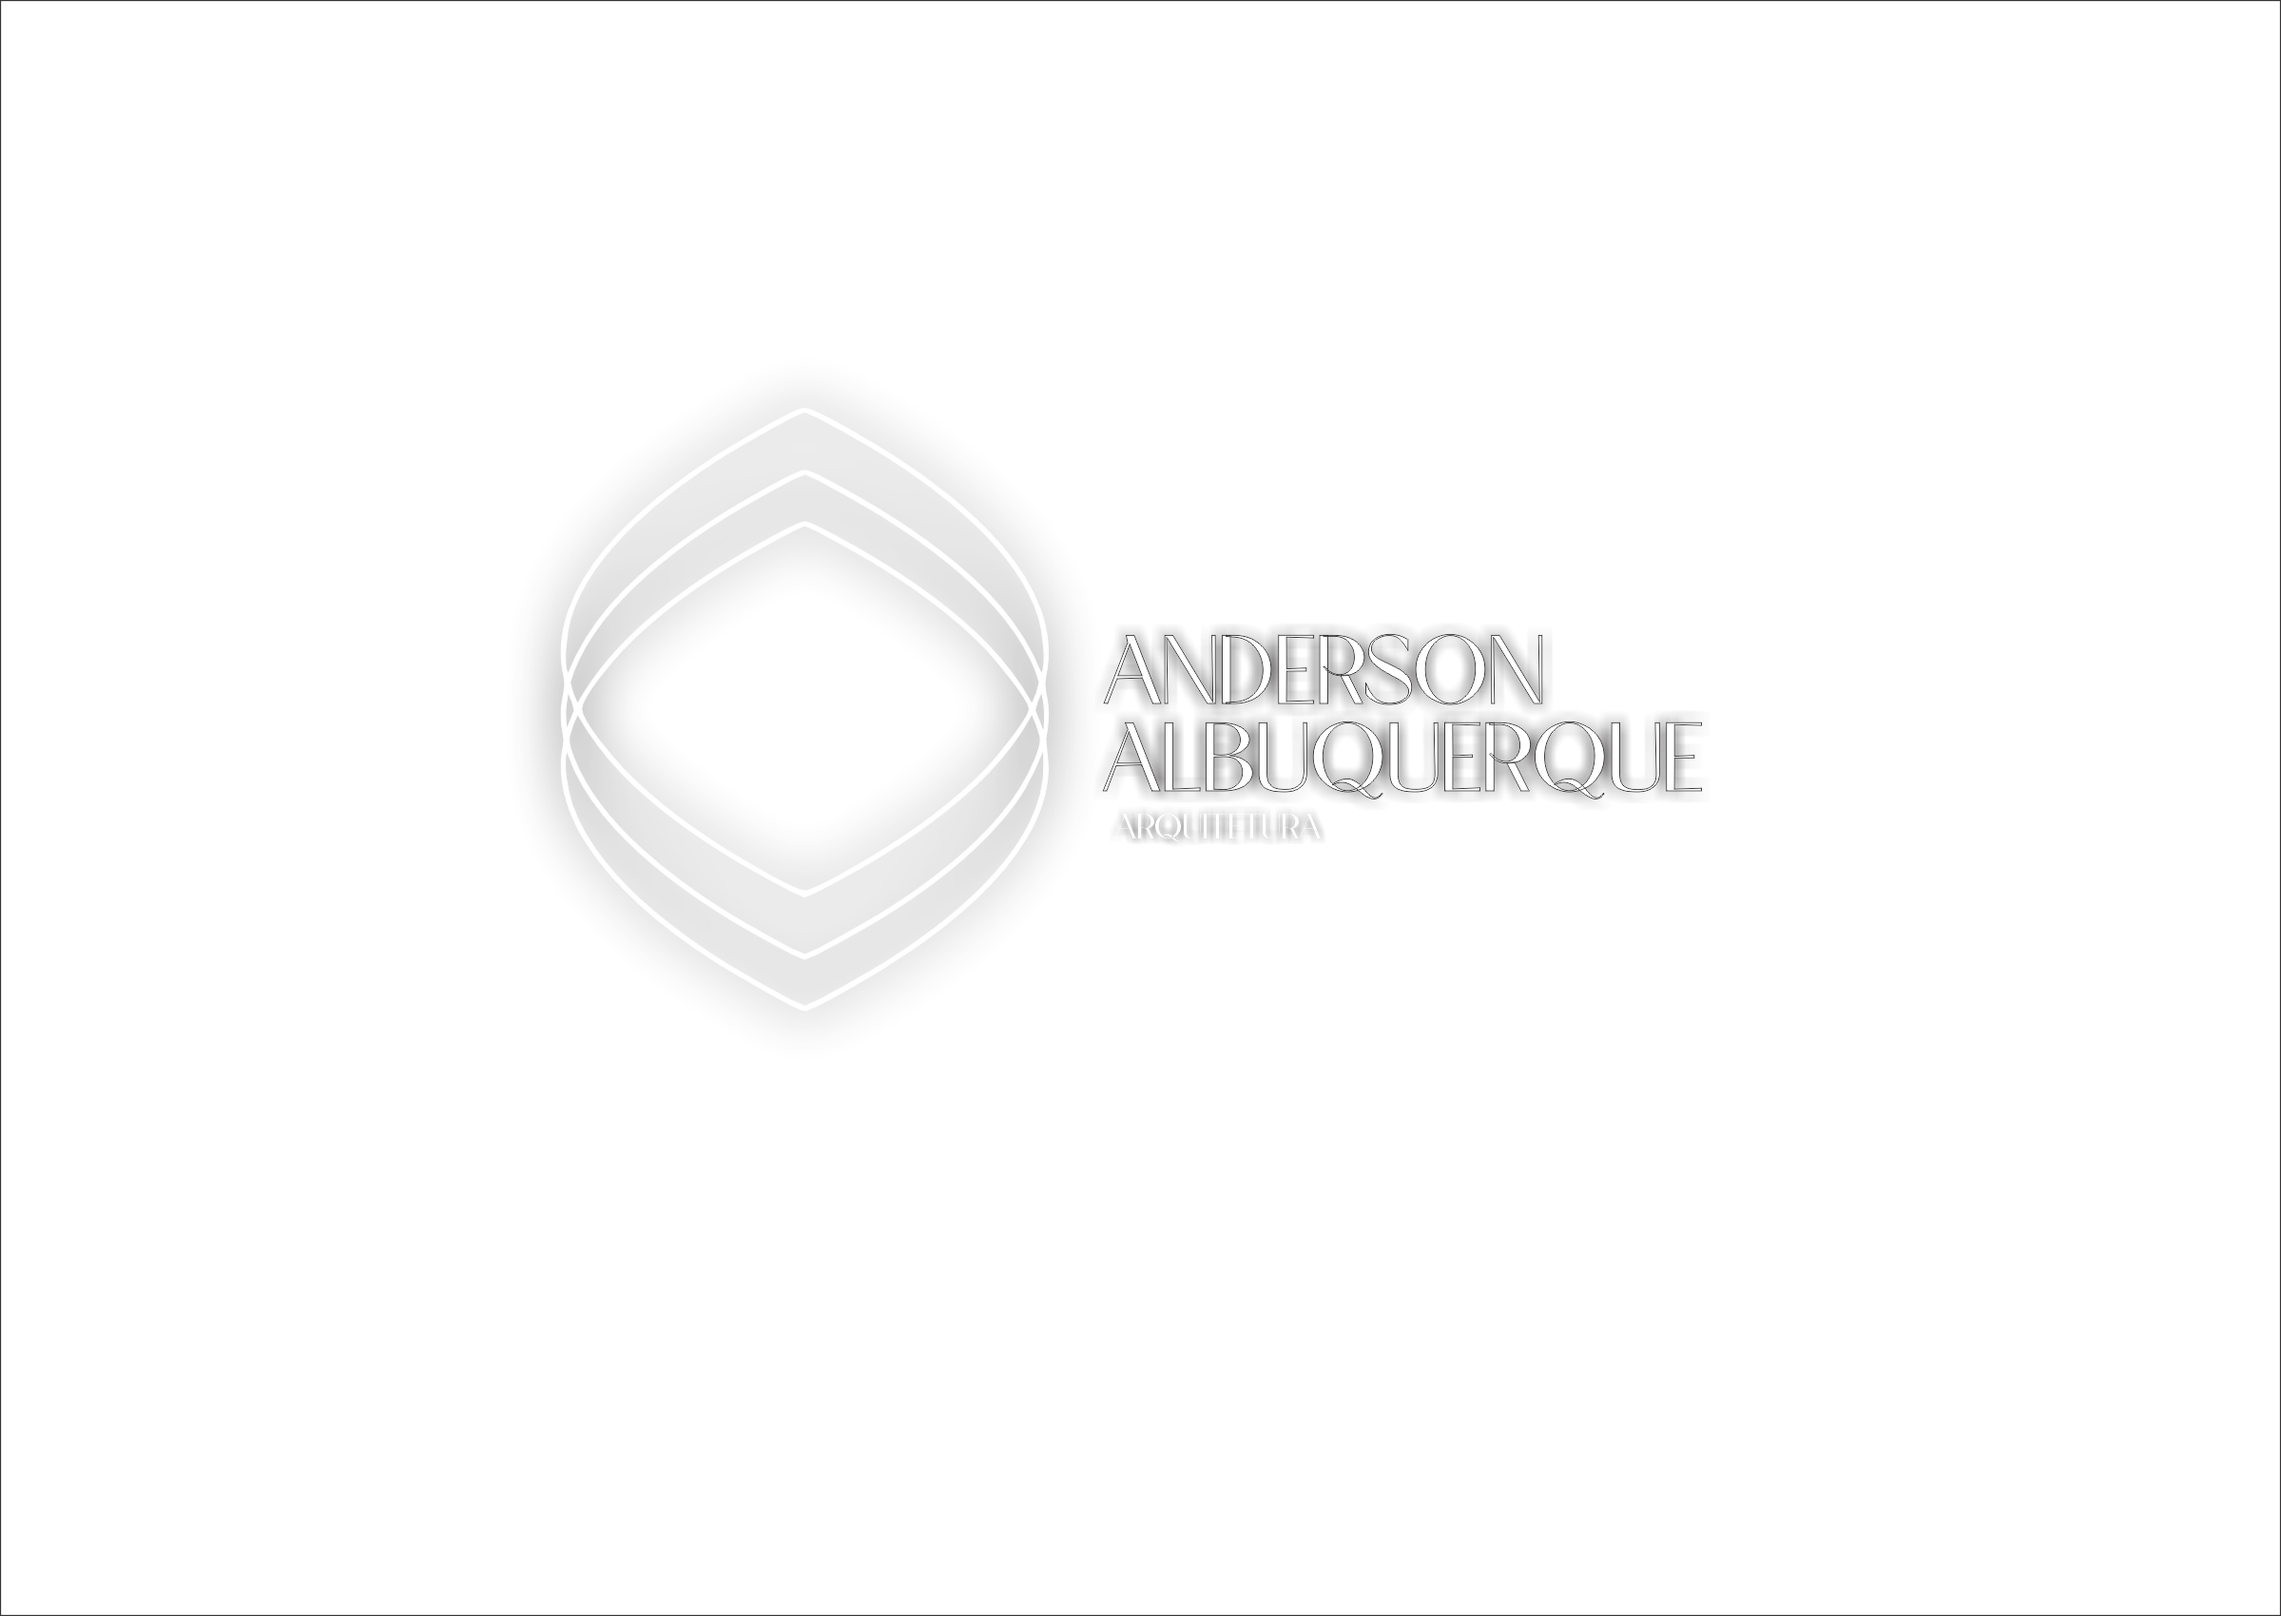
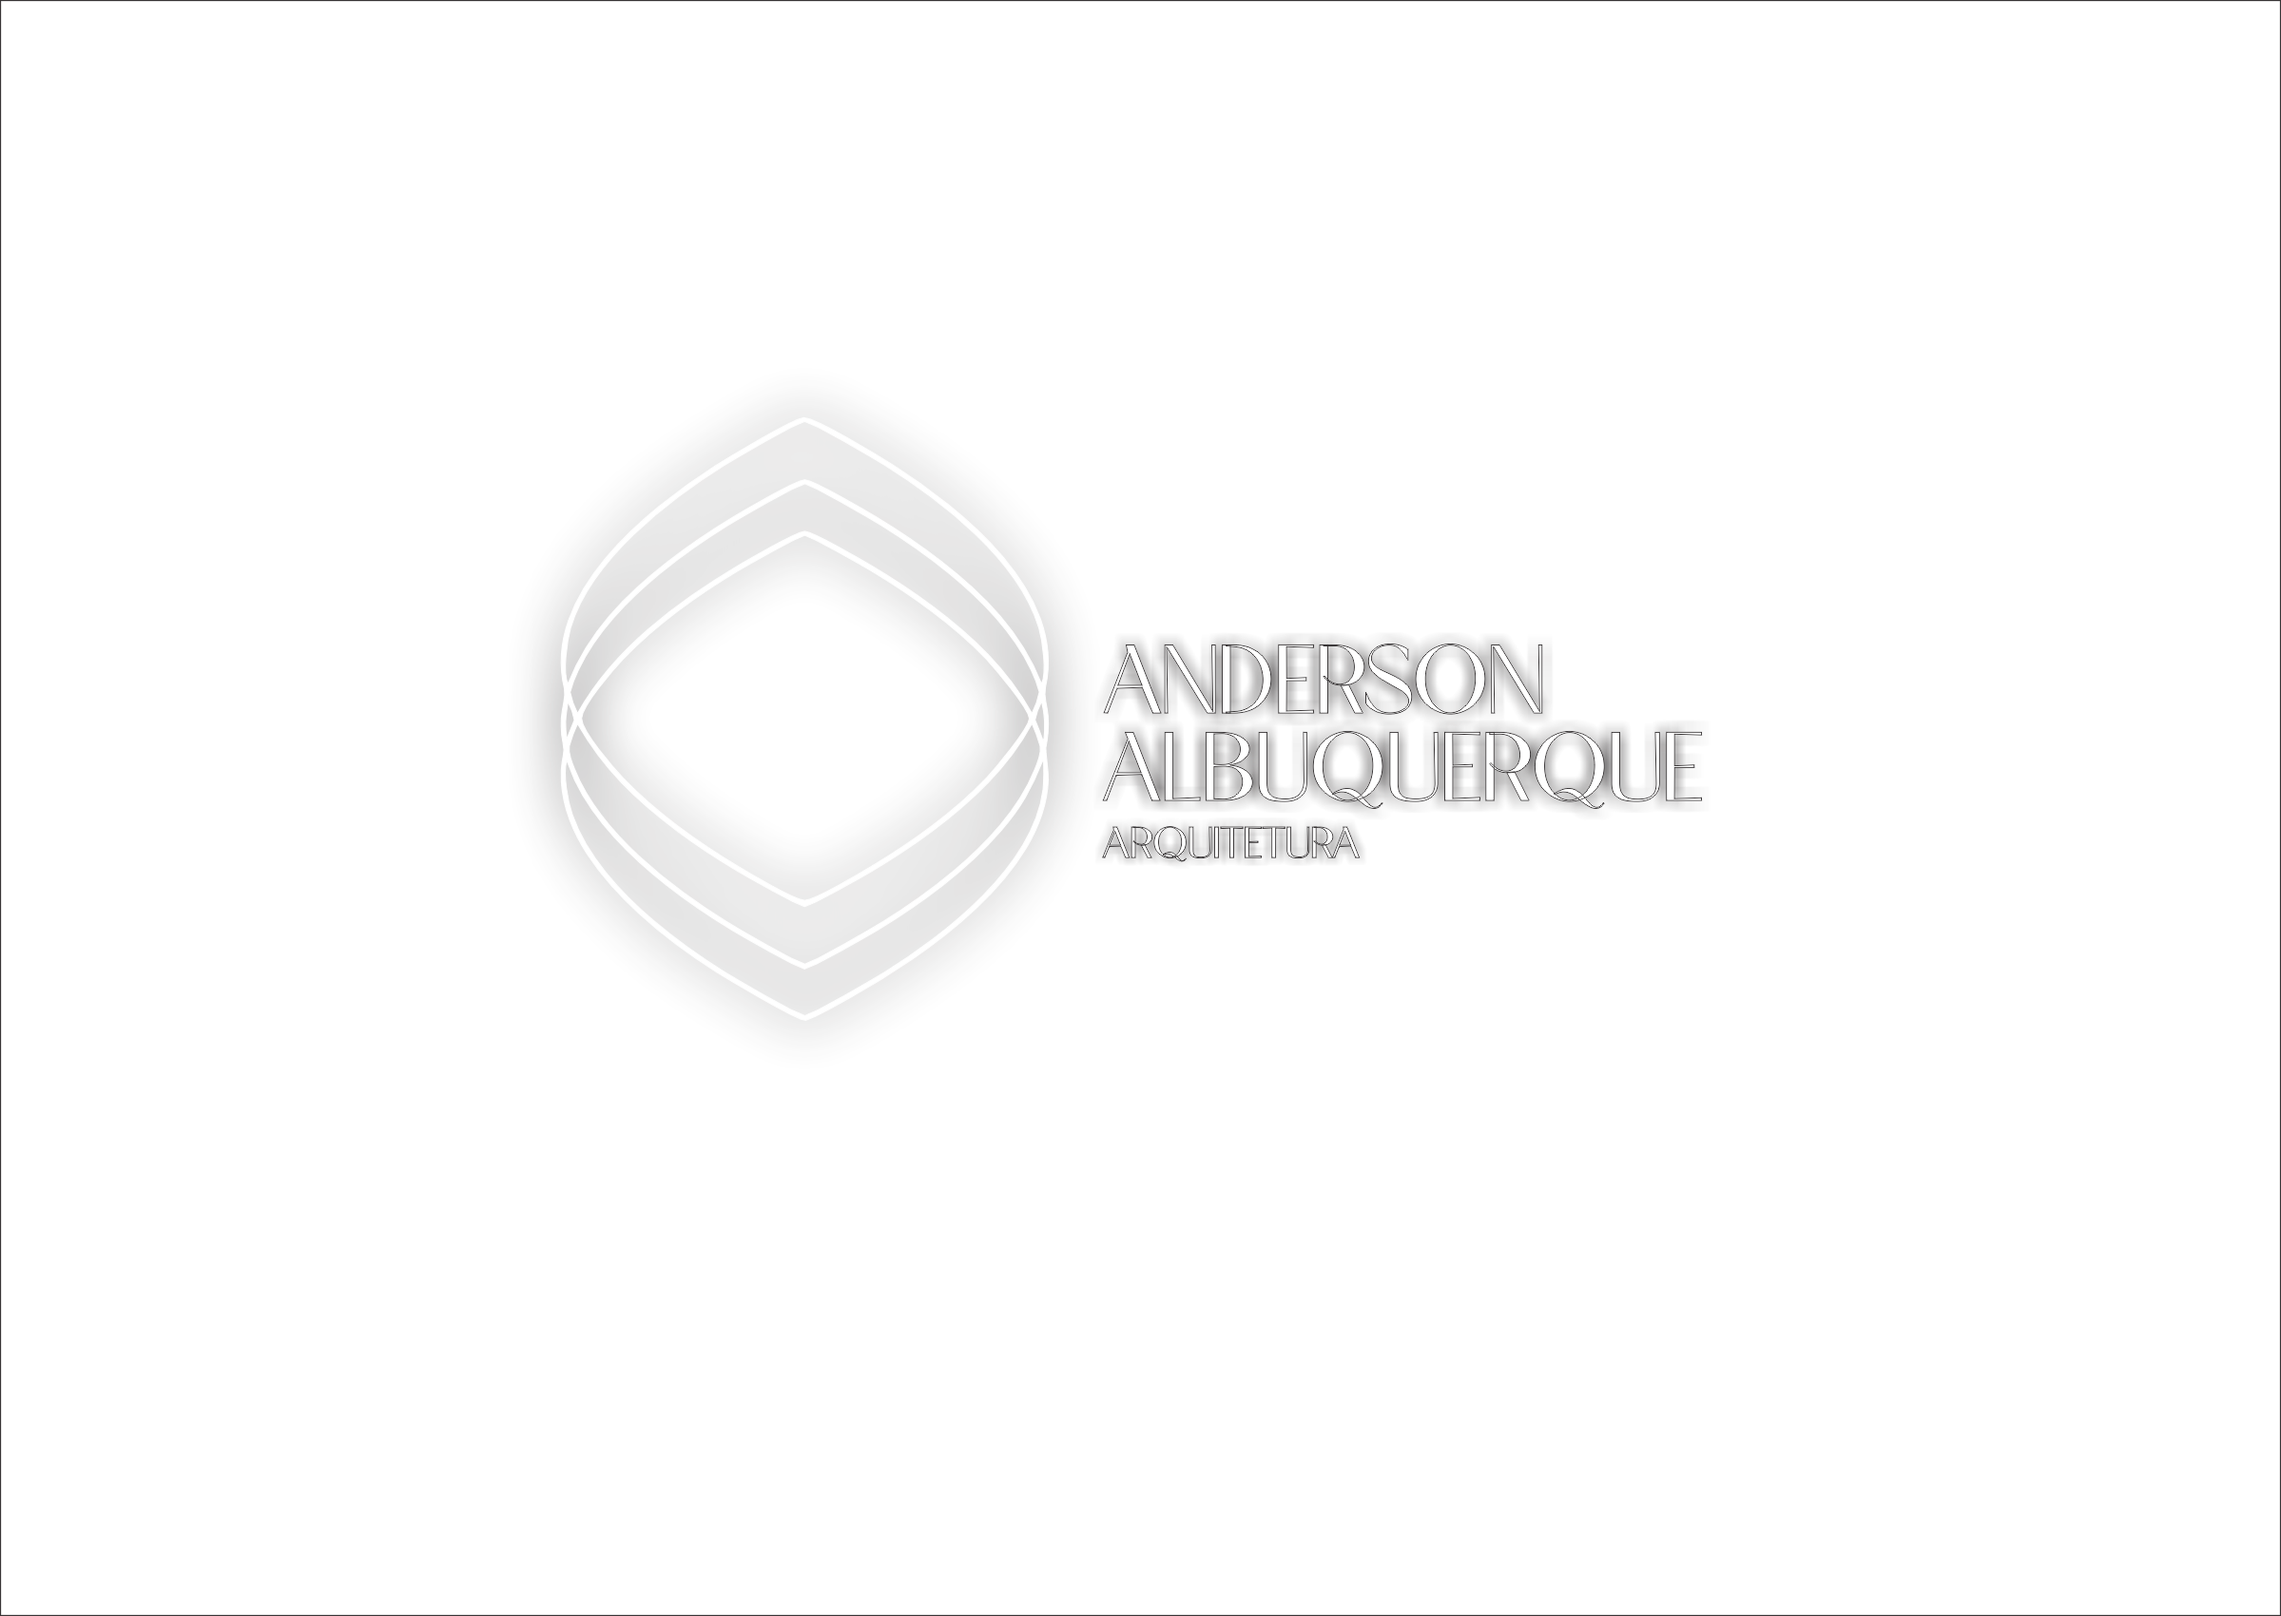
28/03

diff --git a/css/estilo.css b/css/estilo.css
@@ -9,16 +9,20 @@ html, body, #home {
 
 
 body {
-	background: url(../IMAGENS/TC.png);
+	background: url(../IMAGENS/12.png);
+	width: "1280";
     margin: 0;
     padding: 0;
+    background-size: cover; /* cobre toda a área, pode cortar partes da imagem */
+  	background-position: bottom; /* centraliza a imagem */
+  	background-repeat: no-repeat;
     height: 100%;
-    background-size: ;
 }
 
 html, body {
     overflow-x: hidden;
     height: 100%;
+    
 }
 
 #home {
@@ -26,13 +30,12 @@ html, body {
     animation: fadeIn 2s ease-in-out;
     position: relative; /* Add this */
     min-height: 100vh; /* Use viewport height instead of 100% */
-    background:background: url(../IMAGENS/TC.jpg); /* Fallback background color */
     height: 100%;
 }
 
 #home::after {
     content: "";
-    background: url(../IMAGENS/TC3.png) no-repeat center center;
+    background: url(../IMAGENS/TC33.png) no-repeat center center;
     background-size: cover;
     position: absolute; /* Changed from fixed to absolute */
     top: 0;
@@ -50,7 +53,7 @@ html, body {
 
 body::after {
     content: "";
-    background: url(../IMAGENS/TC.png) no-repeat center center;
+    
     background-size: cover;
     position: fixed;
     top: 0;
@@ -91,7 +94,7 @@ section #recursos{
 }
 
 #servicos p{
-	color: black;
+	color: antiquewhite;
 	font-family: "Segoe UI", "Calibri", "Arial", sans-serif;
 }
 
@@ -100,19 +103,19 @@ section #recursos{
 /* Barra Nav
 ----------------------*/
 nav.navbar-transparente {
-	background-color: rgba(0, 0, 0, 0.3);
+	background-color: rgba( 0, 0, 0	, .3);
 	padding: 20px 0px;
 }
 
 
 
 .navbar-light .navbar-nav .nav-link {
-	color: black;
+	color: antiquewhite;
 		
 }
 
 .navbar-light .navbar-nav .nav-link:visited {
-	color: black;
+	color: antiquewhite;
 }
 
 .navbar-light .navbar-nav .nav-link:hover {
@@ -122,7 +125,7 @@ nav.navbar-transparente {
 
 
 .navbar-light .navbar-toggler {
-    color: rgba(0, 0, 0, .6);
+    color: rgba(0, 0, 0, .3);
     border-color: grey;
 }
 
@@ -155,7 +158,7 @@ nav.navbar-transparente {
 
 .carousel-control-next, .carousel-control-prev {
 	width: 5%;
-	color: black;
+	color: white;
 	margin: 0px;
 	
 }
@@ -172,7 +175,7 @@ nav.navbar-transparente {
     margin: 30px auto;
     display: block;
     border-radius: 10px;
-    box-shadow: 0 0 20px 10px rgba(255,255,255,0.1);
+    box-shadow: 0 0 20px 10px rgba(255,255,255,0.3);
     transition: transform 0.3s ease;
 }
 
@@ -194,23 +197,23 @@ nav.navbar-transparente {
 }
 
 #servicos h2, h3 {
-	color: black;
+	color: antiquewhite;
 
 }
 
 #recursos {
-	color: black;
+	color: antiquewhite;
 	padding: 13%;
 	
 }
 
 #recursos h2 {
-	color: black;
+	color: antiquewhite;
 	
 }
 
 #recursos h3 {
-	color: black;
+	color: antiquewhite;
 }
 
 .albuns {
@@ -232,31 +235,31 @@ nav.navbar-transparente {
 /* Rodapé
 ---------------*/
 footer {
-	background-color: rgba(0, 0, 0, .4);
+	background-color: rgba( 75, 25, 15, .7);
 	padding: 60px 0 20px 0;
 	position: relative;
 }
 
 footer h4 {
-	color: black;
+	color: antiquewhite;
 	font-size: 0.8em;
 	text-transform: uppercase;
 	
 }
 
 footer h5 {
-	color: black;
+	color: antiquewhite;
 	font-size: 0.8em;
 	text-transform: uppercase;
 	}
 
 footer .navbar-nav {
-	color: black;
+	color: antiquewhite;
 	font-size: 0.7em;
 }
 
 footer .navbar-nav a {
-	color: black;
+	color: antiquewhite;
 	font-size: 1.2em;
 
 }
@@ -268,12 +271,12 @@ footer .navbar-nav a:hover {
 }
 
 footer .nav-item .nav-link {
-	color: black;
+	color: antiquewhite;
 		
 }
 
 footer .nav-item .nav-link:visited {
-	color: black;
+	color: antiquewhite;
 }
 
 footer .nav-item .nav-link:hover {
@@ -300,7 +303,7 @@ h1 {
 	font-weight: 500;
 	letter-spacing: 0.05em;
 	margin-bottom: 50px;
-	color: black;
+	color: antiquewhite;
 	font-family: "Aptos", "Segoe UI", Arial, sans-serif;
 }
 
@@ -321,7 +324,7 @@ h3 {
 }
 
 p {
-	color: black;
+	color: antiquewhite;
 	font-family: "Aptos", "Segoe UI", Arial, sans-serif;
 }
 

diff --git a/index.html b/index.html
@@ -130,14 +130,14 @@
 
                       <!---CONTROLES--->
                       <a href="#carousel-AA" class="carousel-control-prev" data-slide="prev">
-                        <i class="fas fa-angle-left fa-2x" style="color:black;"></i>
+                        <i class="fas fa-angle-left fa-2x" style="color:floralwhite;"></i>
                       </a>
                       <a href="#carousel-AA" class="carousel-control-next" data-slide="next">
-                        <i class="fas fa-angle-right fa-2x" style="color:black;"></i>
+                        <i class="fas fa-angle-right fa-2x" style="color:floralwhite;"></i>
                       </a>
                   </div> <!--- SLIDE --->
               </div>
-            </div> <!--- row --->
+            </div> <!--- row ---> 
           </div> <!-- container-->
         </section> <!-- serviços-->
 
@@ -189,7 +189,7 @@
       <div class="container">
         <div class="row">
           <div class="col-md-3">
-            <img src="IMAGENS/TC2.png" width="200">
+            <img src="IMAGENS/AA3.png" width="220">
           </div>
           <div class="col-md-3">
             <h4>Anderson Albuquerque</h4>
